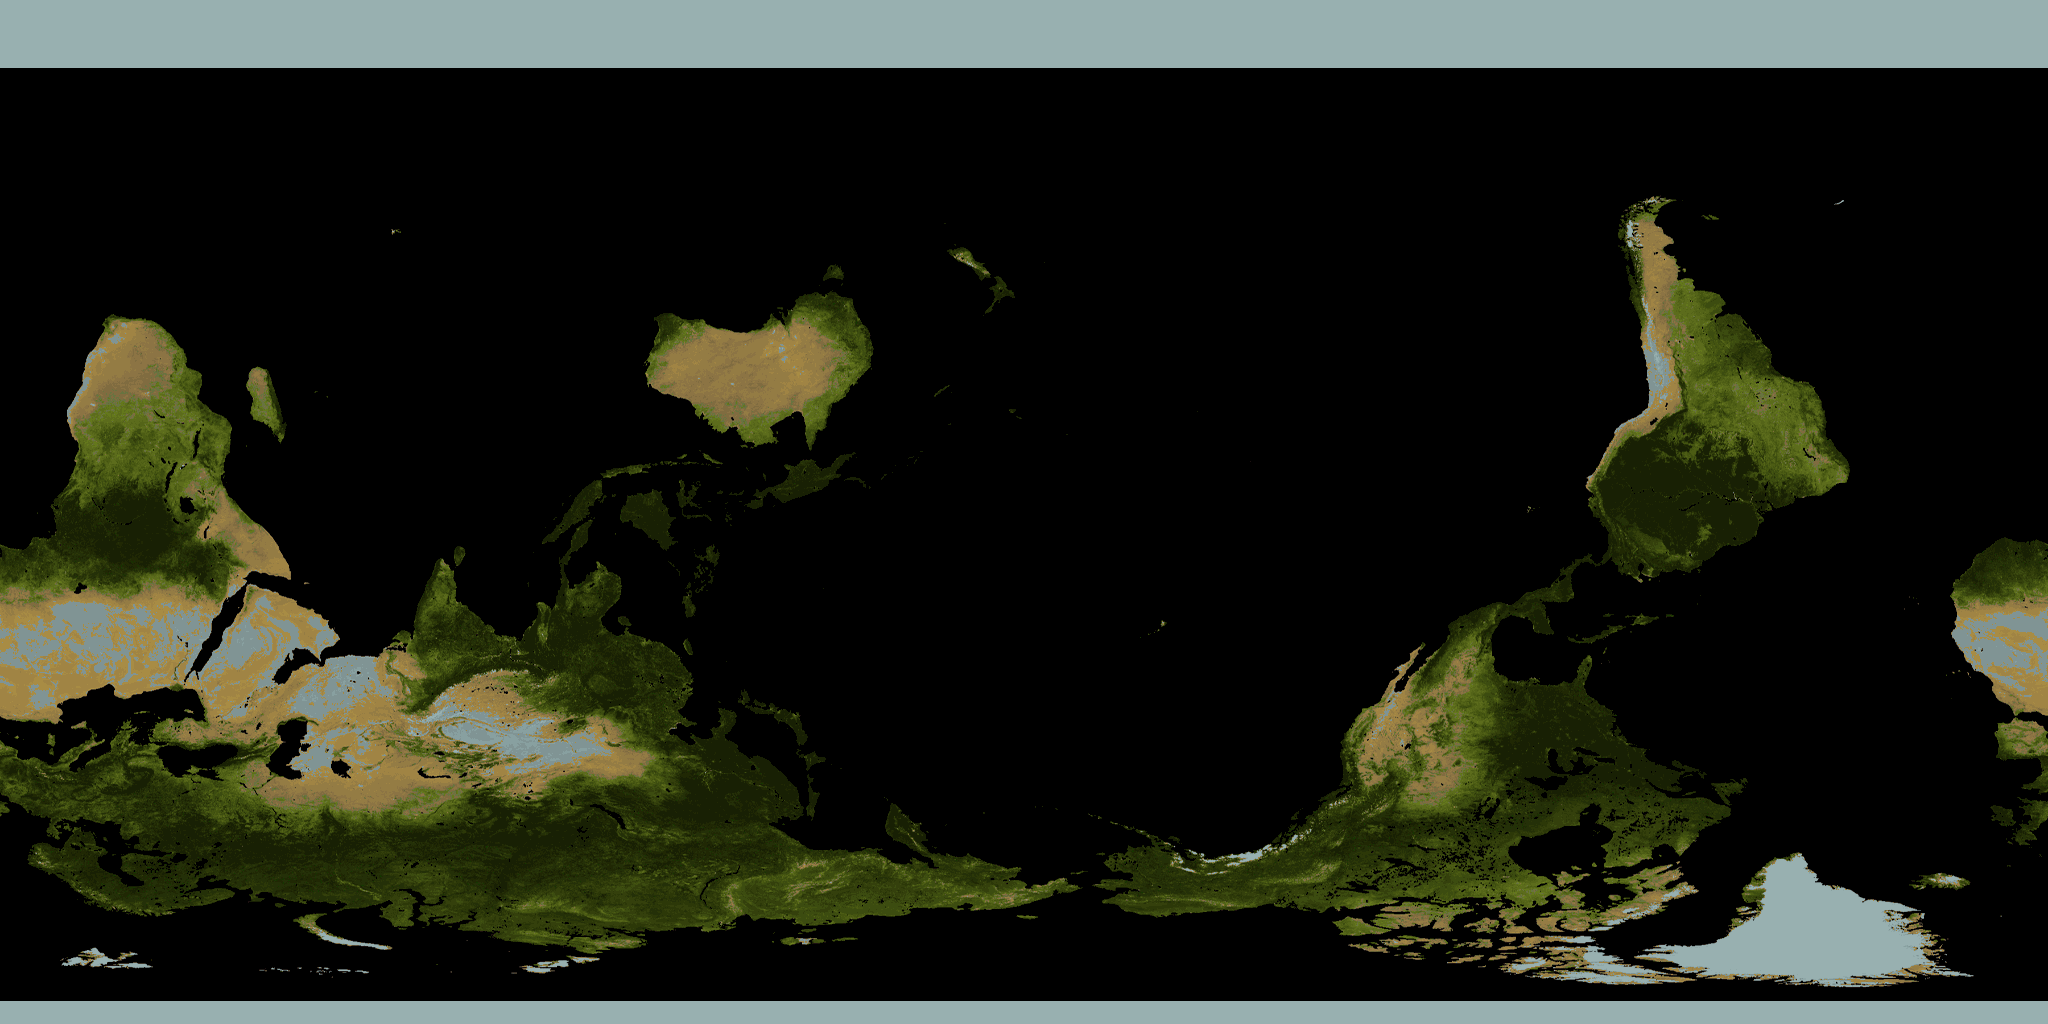
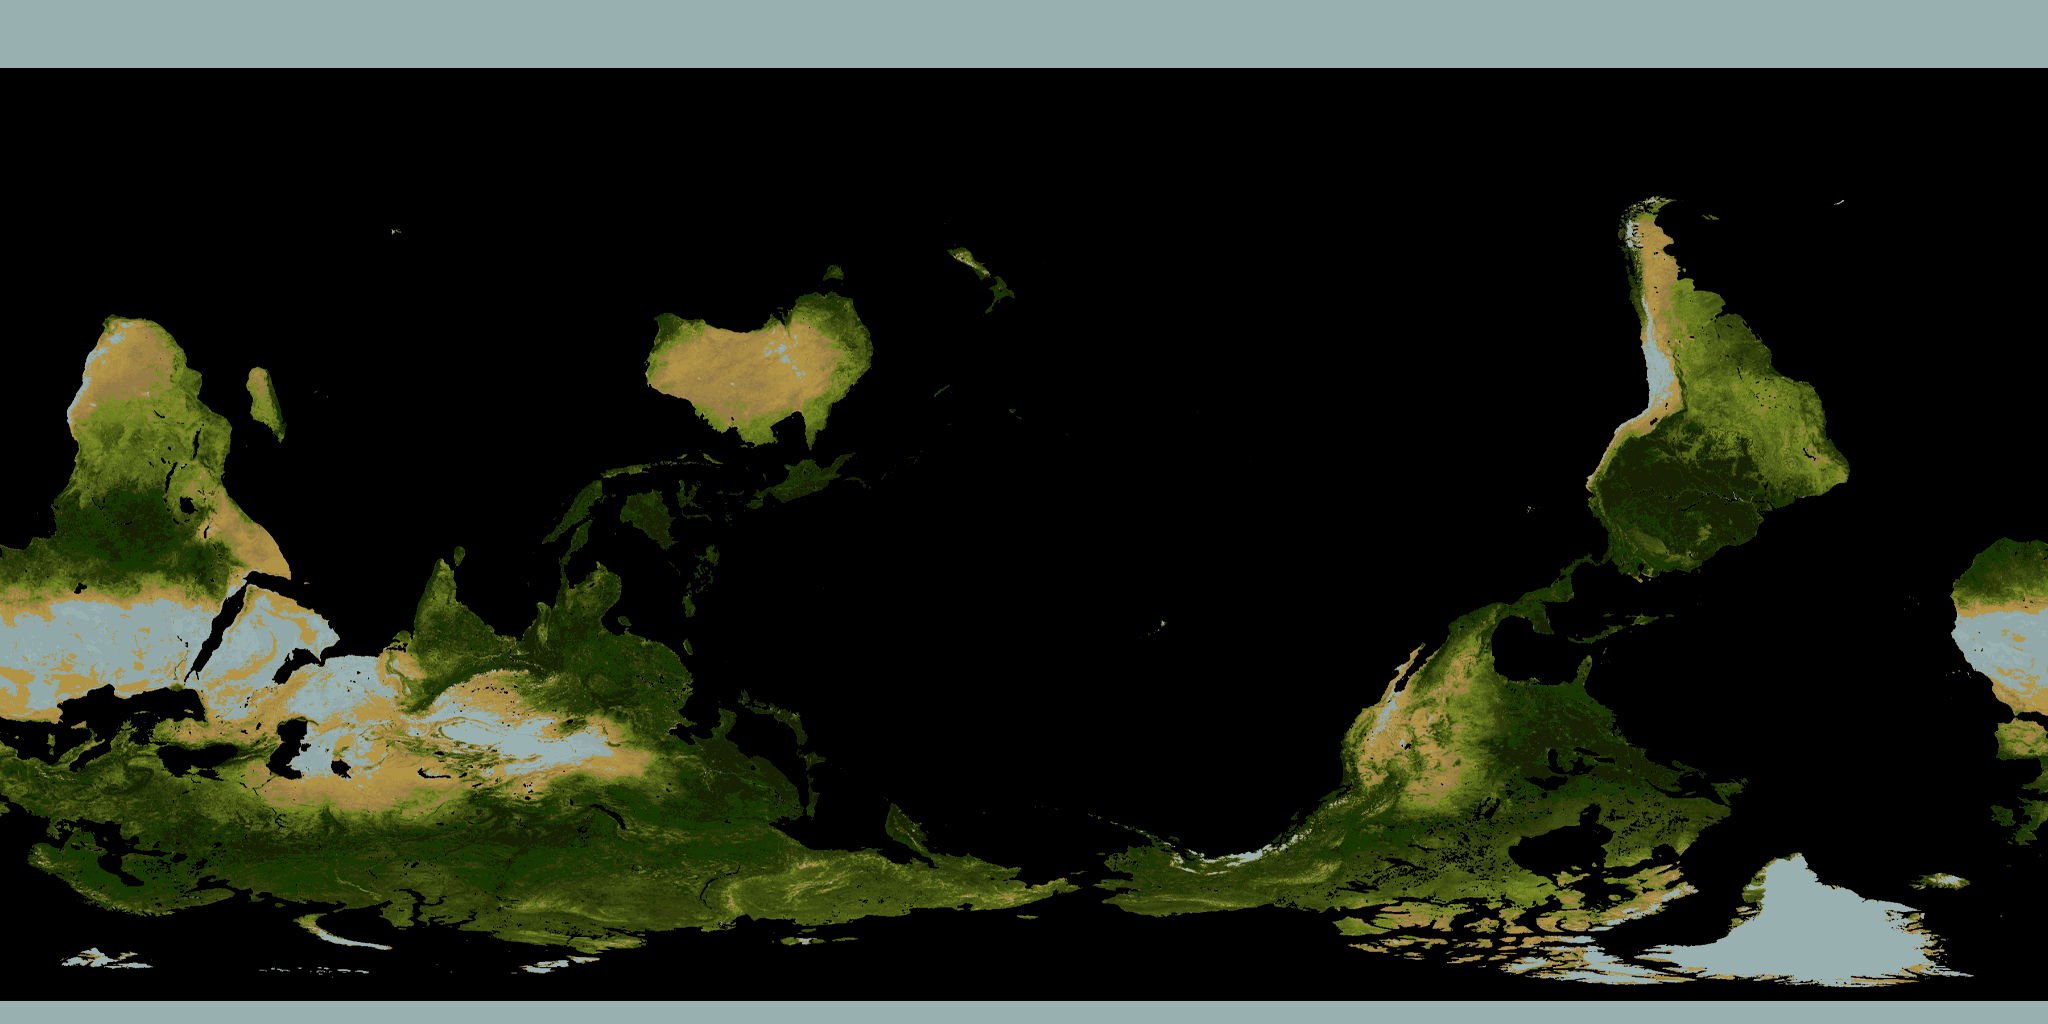
Panel back to the earlier art, globe lightened, seconds level
PANEL. John: "The stretch doesn't fit well. Try one of the older attempts that
seemed to at least fit better on the screen." He is right, and the fitter now
prints the number behind it. The latest delivery needs a worst local scale of
0.31x and 3.00x - mean |stretch| 0.398 - because its slots are spaced evenly
where the engine's are not, and that local squashing is the smearing he sees.
The earlier panel needs 0.86x to 1.06x, mean 0.027: essentially already fitted.

Before trading away the nicer art, the alternative was measured rather than
assumed: the best SINGLE uniform scale for the latest delivery (0.9266, +5.9px)
leaves a worst residual of 45px and rms 17px on the pinned edges. The lower
slots are 48 to 78 tall, so that is most of a button, and the text would be
back off its recess. Its internal spacing is wrong, not just its overall size,
so it cannot be placed without bending. The earlier art it is.

The third candidate - the one that still fit by eye - has INTERCEPT, 12:00,
FRIDAY and the rest painted into the picture, which is the one thing every
version of the request asked for it not to do. Not usable at any fit.

The control cluster happens to sit in the same places in both - cross centred,
a control at each end - so the hitboxes moved in the previous commit still land
on the drawn arrows. Re-verified against the new art rather than assumed: right
pans east, the right roller zooms in to city labels.
[…]

diff --git a/tools/oxce-4x/build/fit_panel_art.py b/tools/oxce-4x/build/fit_panel_art.py
@@ -132,6 +132,21 @@ for a in anchors[1:]:
 src_y = np.array([c[0] for c in clean]); dst_y = np.array([c[1] for c in clean])
 arr = np.asarray(panel).astype(np.float32)
 inv = np.interp(np.arange(1200), dst_y, src_y)
+
+# HOW HARD IS THIS FILE BEING BENT?
+#
+# The warp pins the slots wherever the art put them, so it will always report
+# every rectangle on recess - and it buys that by stretching some stretches of
+# the picture and squashing others. Past about 1.3 the bevels visibly smear, and
+# that is a property of the DELIVERY, not of the fit: art whose slots are nearly
+# right needs almost none. Printed so two deliveries can be compared on it
+# instead of on how they look after correction.
+seg = np.diff(dst_y) / np.maximum(np.diff(src_y), 1e-6)
+worst_i = int(np.argmax(np.abs(np.log(seg))))
+print('warp: %d segments, scale %.2f to %.2f, worst %.2fx around y=%d'
+      % (len(seg), seg.min(), seg.max(), seg[worst_i], int(dst_y[worst_i])))
+print('      mean |stretch| %.3f  (0 = the art already fitted)'
+      % float(np.abs(np.log(seg)).mean()))
 out = np.zeros((1200, 384, 3), np.float32)
 for yo in range(1200):
     ys = float(inv[yo]); lo = int(np.floor(ys)); f = ys - lo

diff --git a/tools/oxce-4x/build/make_globe_texture.py b/tools/oxce-4x/build/make_globe_texture.py
@@ -45,7 +45,10 @@ BLOCKS = [1, 2, 3, 4, 7, 9, 10, 14]
 # three open-ocean points. flip=False, roll=0 scores 8/8. The old flip=True,
 # roll=87 scores 5/8: it put the Atlantic over Africa, which is why half the globe
 # had no texture and the vanilla polygons showed through underneath it.
-DIM = 0.80
+# 0.80 was too deep - John: "The globe is too dark now." 0.90 is a touch off the
+# daylight render rather than a dusk pass over it. Mean land entry: 5.2 undimmed,
+# 5.8 here, 6.4 at 0.80, out of the 16 in each block.
+DIM = 0.90
 
 def main(src_path, pal_path, out_path, flip=False, roll_deg=0.0):
     raw = open(pal_path, 'rb').read()
